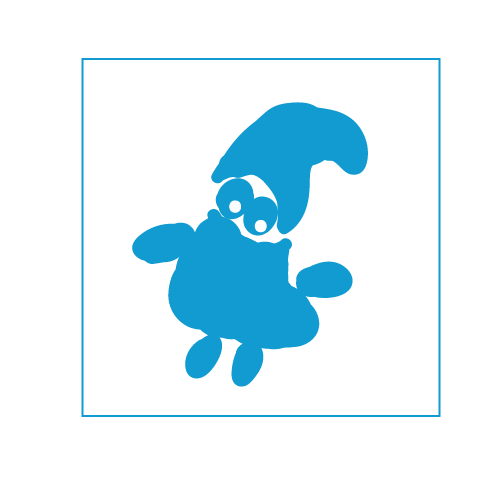
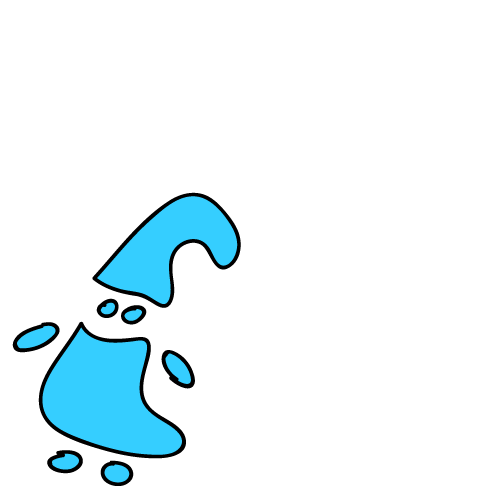
Actually added quarry and fixed minion printing

Changed region(s): [[0.03, 0.12, 0.9, 0.99], [0.18, 0.09, 0.87, 0.12]]

diff --git a/Game/graphics/mapitem.cpp b/Game/graphics/mapitem.cpp
@@ -6,7 +6,7 @@ namespace Whiskas {
 
 std::map<std::string, QColor> SimpleMapItem::c_mapcolors = {};
 std::map<std::string, QImage> SimpleMapItem::c_mapicons = {};
-
+std::map<std::string, std::map<std::string, QImage>> SimpleMapItem::c_objecticons = {};
 
 SimpleMapItem::SimpleMapItem(const std::shared_ptr<Course::GameObject> &obj, int size ):
     m_gameobject(obj), m_scenelocation(m_gameobject->getCoordinatePtr()->asQpoint()), m_size(size)
@@ -22,12 +22,18 @@ QRectF SimpleMapItem::boundingRect() const
 void SimpleMapItem::paint(QPainter *painter, const QStyleOptionGraphicsItem *option, QWidget *widget)
 {
     Q_UNUSED( option ); Q_UNUSED( widget );
-    if ( c_mapicons.find(m_gameobject->getType()) == c_mapicons.end() ){
+    /*if ( (c_mapcolors.find(m_gameobject->getType()) == c_mapcolors.end()) ){
         painter->setBrush(QBrush(c_mapcolors.at(m_gameobject->getType())));
         painter->drawRect(boundingRect());
-    } else {
+    }*/
+
+    if ( c_objecticons.find(m_gameobject->getType()) == c_objecticons.end() ) {
         QRectF source(0.0, 0.0, 500.0, 500.0);
         painter->drawImage(boundingRect(), c_mapicons.at(m_gameobject->getType()), source);
+    } else {
+        QRectF source(0.0, 0.0, 500.0, 500.0);
+        painter->drawImage(boundingRect(),
+                           c_objecticons.at(m_gameobject->getType()).at(m_gameobject->getOwner()->getName()), source);
     }
     /*painter->setBrush(QBrush(c_mapcolors.at(m_gameobject->getType())));
     if ( m_gameobject->getType() == "Forest" ){
@@ -78,22 +84,31 @@ void SimpleMapItem::setSize(int size)
 
 void SimpleMapItem::addNewColor(std::string type)
 {
-    if ( c_mapcolors.find(type) == c_mapcolors.end() ){
+    if ( c_mapicons.find(type) == c_mapicons.end()
+         && c_objecticons.find(type) == c_objecticons.end() ){
         std::size_t hash = std::hash<std::string>{}(type);
-        c_mapcolors.insert({type, QColor((hash & 0xFF0000) >> 16, (hash & 0x00FF00 ) >> 8, (hash & 0x0000FF))});
         if (type == "Forest") {
             QImage forest_pic = QImage(":/images/graphics/pi.png");
             c_mapicons.insert({type, forest_pic});
         } else if (type == "Nexus") {
-            QImage nexus_pic = QImage(":/images/graphics/nexus_purple.png");
-            c_mapicons.insert({type, nexus_pic});
+            QImage blue_nexus_pic = QImage(":/images/graphics/nexus_blue.png");
+            QImage purple_nexus_pic = QImage(":/images/graphics/nexus_purple.png");
+
+            std::map<std::string, QImage> owner_pic_pair =  {{"Blue", blue_nexus_pic},
+                                                        {"Purple", purple_nexus_pic}};
+            c_objecticons.insert({type, owner_pic_pair});
         } else if (type == "Minion") {
-            QImage minion_pic = QImage(":/images/graphics/minion_blue.png");
-            c_mapicons.insert({type, minion_pic});
-        } else if (type == "MeleeChampion") {
+            QImage blue_minion_pic = QImage(":/images/graphics/minion_blue.png");
+            QImage purple_minion_pic = QImage(":/images/graphics/minion_purple.png");
+
+            std::map<std::string, QImage> owner_pic_pair =  {{"Blue", blue_minion_pic},
+                                                        {"Purple", purple_minion_pic}};
+            c_objecticons.insert({type, owner_pic_pair});
+
+        } /*else if (type == "MeleeChampion") {
             std::size_t hash = std::hash<std::string>{}(type);
             c_mapcolors.insert({type, QColor((hash & 0xFF0000) >> 16, (hash & 0x00FF00 ) >> 8, (hash & 0x0000FF))});
-        } else if (type == "Mountain") {
+        }*/ else if (type == "Mountain") {
             QImage mountain_pic = QImage(":/images/graphics/mountain.png");
             c_mapicons.insert({type, mountain_pic});
         } else if (type == "Spring") {
@@ -102,6 +117,9 @@ void SimpleMapItem::addNewColor(std::string type)
         } else if (type == "Jungle") {
             QImage jungle_pic = QImage(":/images/graphics/jungle.png");
             c_mapicons.insert({type, jungle_pic});
+        } else {
+            QImage nexus_pic = QImage(":/images/graphics/nexus_blue.png");
+            c_mapicons.insert({type, nexus_pic});
         }
 
 

diff --git a/Game/buildings/nexus.cpp b/Game/buildings/nexus.cpp
@@ -11,7 +11,7 @@ Nexus::Nexus(
         const std::shared_ptr<gameManager>& objectmanager,
         const std::shared_ptr<Course::PlayerBase>& owner,
         const int& tilespaces,
-        const Course::ResourceMap& buildcost,
+        const  AdvancedResourceMap buildcost,
         const AdvancedResourceMap production,
         int health,
         int attack
@@ -33,26 +33,5 @@ std::string Nexus::getType() const
     return "Nexus";
 }
 
-void Nexus::onBuildAction()
-{
-    std::vector< std::shared_ptr<Course::TileBase> > neighbours =
-            lockObjectManager()->getTiles(getCoordinatePtr()->neighbours(1));
-
-    for(auto it = neighbours.begin(); it != neighbours.end(); ++it)
-    {
-        // If the Tile doesn't have owner, set it's owner to buildings owner.
-        if( not (*it)->getOwner() )
-        {
-            (*it)->setOwner(getOwner());
-        }
-    }
-}
-
-Course::ResourceMap Nexus::getProduction()
-{
-    // Outpost has only negative production effect.
-    // Ze hold markerz, zey do nothing.
-    return PRODUCTION_EFFECT;
-}
 
 } // namespace Whiskas

diff --git a/Game/buildings/quarry.cpp b/Game/buildings/quarry.cpp
@@ -1,6 +1,38 @@
 #include "quarry.h"
 
-Quarry::Quarry()
-{
+#include "nexus.h"
+#include "handlerandmanager/gameeventhandler.h"
+#include "handlerandmanager/gamemanager.h"
 
+
+
+namespace Whiskas {
+
+Quarry::Quarry(
+        const std::shared_ptr<gameEventHandler>& eventhandler,
+        const std::shared_ptr<gameManager>& objectmanager,
+        const std::shared_ptr<Course::PlayerBase>& owner,
+        const int& tilespaces,
+        const  AdvancedResourceMap buildcost,
+        const AdvancedResourceMap production,
+        int health,
+        int attack
+        ):
+    CustomBuildingBase(eventhandler,
+                 objectmanager,
+                 owner,
+                 tilespaces,
+                 buildcost,
+                 production,
+                 health,
+                 attack)
+
+{
 }
+
+std::string Quarry::getType() const
+{
+    return "Quarry";
+}
+
+} // namespace Whiskas

diff --git a/Game/buildings/nexus.h b/Game/buildings/nexus.h
@@ -7,13 +7,6 @@
 namespace Whiskas {
 
 
-
-static const Course::ResourceMap OUTPOST_PRODUCTIONMAP = {
-  {Course::BasicResource::MONEY, -10}
-};
-
-
-
 class Nexus : public CustomBuildingBase
 
 {
@@ -25,7 +18,7 @@ public:
             const std::shared_ptr<gameManager>& objectmanager,
             const std::shared_ptr<Course::PlayerBase>& owner,
             const int& tilespaces = 1,
-            const Course::ResourceMap& buildcost = Course::ConstResourceMaps::OUTPOST_BUILD_COST,
+            const AdvancedResourceMap buildcost = NEXUS_PRODUCE,
             const AdvancedResourceMap production = NEXUS_PRODUCE,
             int health =5,
             int attack = 0
@@ -34,8 +27,6 @@ public:
 
     virtual ~Nexus() = default;
     virtual std::string getType() const override;
-    virtual void onBuildAction() override;
-    virtual Course::ResourceMap getProduction() override;
 
 }; // class Nexus
 

diff --git a/Game/buildings/quarry.h b/Game/buildings/quarry.h
@@ -1,11 +1,37 @@
 #ifndef QUARRY_H
 #define QUARRY_H
 
+#include "buildings/custombuildingbase.h"
+#include "core/resourcemaps.h"
 
-class Quarry
+namespace Whiskas {
+
+
+class Quarry : public CustomBuildingBase
+
 {
 public:
-    Quarry();
-};
+    Quarry() = delete;
+
+    explicit Quarry(
+            const std::shared_ptr<gameEventHandler>& eventhandler,
+            const std::shared_ptr<gameManager>& objectmanager,
+            const std::shared_ptr<Course::PlayerBase>& owner,
+            const int& tilespaces = 1,
+            const AdvancedResourceMap buildcost = NEXUS_PRODUCE,
+            const AdvancedResourceMap production = NEXUS_PRODUCE,
+            int health =5,
+            int attack = 0
+
+            );
+
+    virtual ~Quarry() = default;
+    virtual std::string getType() const override;
+
+}; // class Nexus
+
+} // namespace Whiskas
+
+
 
 #endif // QUARRY_H

diff --git a/Game/buildings/custombuildingbase.cpp b/Game/buildings/custombuildingbase.cpp
@@ -9,7 +9,7 @@ CustomBuildingBase::CustomBuildingBase(
         const std::shared_ptr<gameManager>& objectmanager,
         const std::shared_ptr<Course::PlayerBase>& owner,
         const int& tilespaces,
-        const Course::ResourceMap& buildcost,
+        const AdvancedResourceMap buildcost,
         const AdvancedResourceMap production,
         int health,
         int attack
@@ -19,13 +19,20 @@ CustomBuildingBase::CustomBuildingBase(
                  owner,
                  tilespaces),
     Attackable(health, attack,0, ID),
-    production_(production)
+    production_(production),
+    buildcost_(buildcost)
 {
 }
 
 AdvancedResourceMap CustomBuildingBase::getAdvancedProduction()
 {
     return production_;
+}
+
+
+AdvancedResourceMap CustomBuildingBase::getAdvancedCost()
+{
+    return buildcost_;
 }
 
 void CustomBuildingBase::doSpecialAction()

diff --git a/Game/mapwindow.cc b/Game/mapwindow.cc
@@ -81,8 +81,8 @@ void MapWindow::initMap(int x, int y)
     setSize(x,y);
      std::shared_ptr<Whiskas::gameManager> gmanager =  std::make_shared<Whiskas::gameManager>(m_gamescene);
 
-     std::shared_ptr<Whiskas::LeaguePlayer> firstPlayer = std::make_shared<Whiskas::LeaguePlayer>("player 1");
-     std::shared_ptr<Whiskas::LeaguePlayer> secondPlayer = std::make_shared<Whiskas::LeaguePlayer>("player 2");
+     std::shared_ptr<Whiskas::LeaguePlayer> firstPlayer = std::make_shared<Whiskas::LeaguePlayer>("Blue");
+     std::shared_ptr<Whiskas::LeaguePlayer> secondPlayer = std::make_shared<Whiskas::LeaguePlayer>("Purple");
      qDebug()<<"start of game";
      firstPlayer->getItems();
 

diff --git a/Game/buildings/custombuildingbase.h b/Game/buildings/custombuildingbase.h
@@ -24,7 +24,7 @@ public:
             const std::shared_ptr<gameManager>& objectmanager,
             const std::shared_ptr<Course::PlayerBase>& owner,
             const int& tilespaces = 1,
-            const Course::ResourceMap& buildcost = {},
+            const AdvancedResourceMap buildcost = {},
            const AdvancedResourceMap production = {},
             int health=3,
             int attack=0
@@ -32,9 +32,12 @@ public:
 
 
    virtual AdvancedResourceMap getAdvancedProduction();
+   virtual AdvancedResourceMap getAdvancedCost();
+
    virtual void doSpecialAction() override;
 protected:
    AdvancedResourceMap production_;
+   AdvancedResourceMap buildcost_;
 };
 
 }

diff --git a/Game/buildings/AltarBase.cpp b/Game/buildings/AltarBase.cpp
@@ -5,7 +5,7 @@ AltarBase::AltarBase(const std::shared_ptr<gameEventHandler>& eventhandler,
                                        const std::shared_ptr<gameManager>& objectmanager,
                                        const std::shared_ptr<Course::PlayerBase>& owner,
                                        const int& tilespaces,
-                                       const Course::ResourceMap& buildcost,
+                                       const AdvancedResourceMap buildcost,
                                        const AdvancedResourceMap production,
                                        int health,
                                        int attack

diff --git a/Game/buildings/meleealtar.cpp b/Game/buildings/meleealtar.cpp
@@ -6,7 +6,7 @@ MeleeAltar::MeleeAltar(const std::shared_ptr<gameEventHandler>& eventhandler,
                        const std::shared_ptr<gameManager>& objectmanager,
                        const std::shared_ptr<Course::PlayerBase>& owner,
                        const int& tilespaces,
-                       const Course::ResourceMap& buildcost,
+                       const AdvancedResourceMap buildcost,
                        const AdvancedResourceMap production):
     AltarBase(eventhandler,objectmanager,owner)
 {

diff --git a/Game/buildings/AltarBase.h b/Game/buildings/AltarBase.h
@@ -11,7 +11,7 @@ public:
                        const std::shared_ptr<gameManager>& objectmanager,
                        const std::shared_ptr<Course::PlayerBase>& owner,
                        const int& tilespaces = 1,
-                       const Course::ResourceMap& buildcost = {},
+                       const AdvancedResourceMap buildcost = {},
                        const AdvancedResourceMap production ={},
                        int health =5,
                        int attack = 0);

diff --git a/Game/buildings/meleealtar.h b/Game/buildings/meleealtar.h
@@ -12,7 +12,7 @@ public:
                const std::shared_ptr<gameManager>& objectmanager,
                const std::shared_ptr<Course::PlayerBase>& owner,
                const int& tilespaces = 1,
-               const Course::ResourceMap& buildcost = Course::ConstResourceMaps::OUTPOST_BUILD_COST,
+               const AdvancedResourceMap buildcost = {},
                const AdvancedResourceMap production ={});
 public:
     void upgradeMinion() override;
